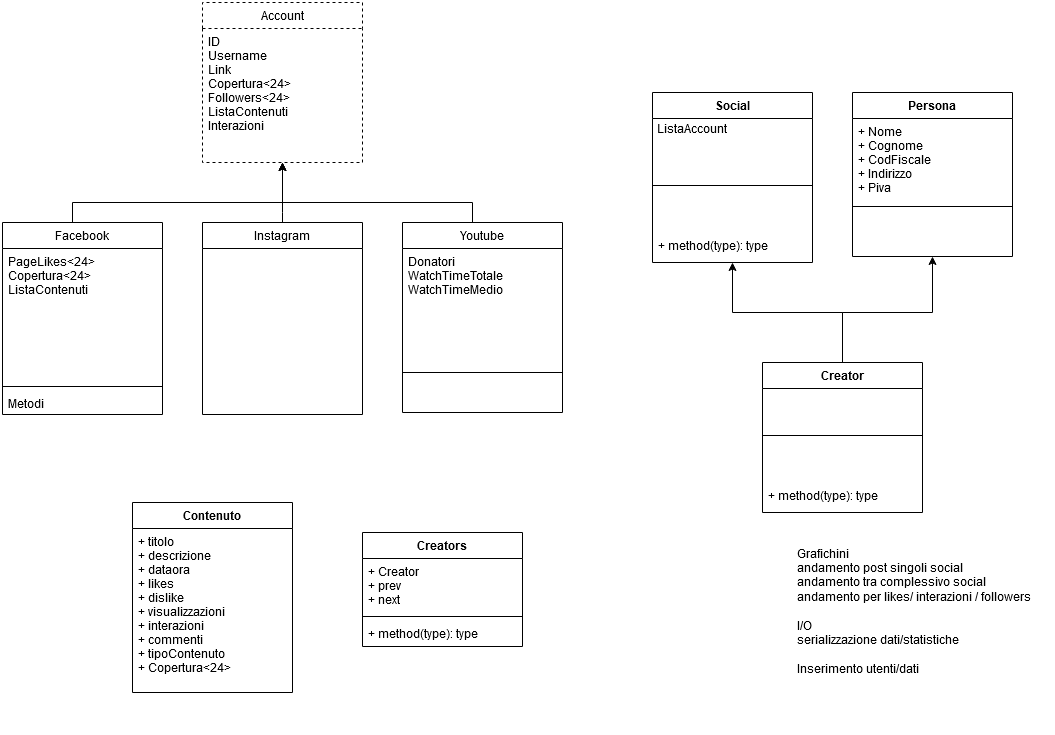
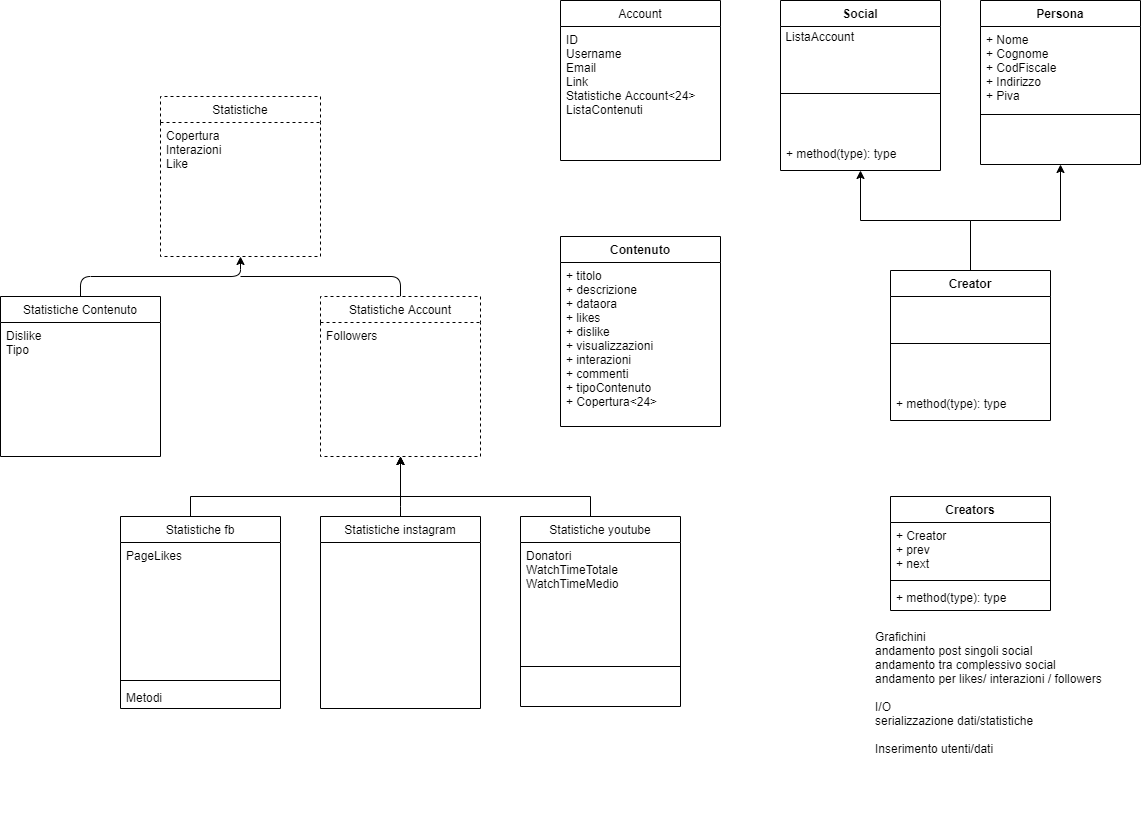
Nuove classi, rimossa vecchia gerarchia

diff --git a/ProgettoPao2020/stats_instagram.h b/ProgettoPao2020/stats_instagram.h
@@ -1,0 +1,11 @@
+#ifndef STATS_INSTAGRAM_H
+#define STATS_INSTAGRAM_H
+#include <stats_account.h>
+
+class Stats_instagram : Stats_account
+{
+public:
+    Stats_instagram();
+};
+
+#endif // STATS_INSTAGRAM_H

diff --git a/ProgettoPao2020/stats_facebook.h b/ProgettoPao2020/stats_facebook.h
@@ -1,0 +1,11 @@
+#ifndef STATS_FACEBOOK_H
+#define STATS_FACEBOOK_H
+#include <stats_account.h>
+
+class Stats_facebook : Stats_account
+{
+public:
+    Stats_facebook();
+};
+
+#endif // STATS_FACEBOOK_H

diff --git a/ProgettoPao2020/stats_youtube.h b/ProgettoPao2020/stats_youtube.h
@@ -1,0 +1,11 @@
+#ifndef STATS_YOUTUBE_H
+#define STATS_YOUTUBE_H
+#include <stats_account.h>
+
+class Stats_youtube : Stats_account
+{
+public:
+    Stats_youtube();
+};
+
+#endif // STATS_YOUTUBE_H

diff --git a/ProgettoPao2020/stats_account.h b/ProgettoPao2020/stats_account.h
@@ -1,0 +1,11 @@
+#ifndef STATS_ACCOUNT_H
+#define STATS_ACCOUNT_H
+#include <stats.h>
+
+class Stats_account : Stats
+{
+public:
+    Stats_account();
+};
+
+#endif // STATS_ACCOUNT_H

diff --git a/ProgettoPao2020/stats_content.h b/ProgettoPao2020/stats_content.h
@@ -1,0 +1,11 @@
+#ifndef STATS_CONTENT_H
+#define STATS_CONTENT_H
+#include <stats.h>
+
+class Stats_content : Stats
+{
+public:
+    Stats_content();
+};
+
+#endif // STATS_CONTENT_H

diff --git a/ProgettoPao2020/stats.h b/ProgettoPao2020/stats.h
@@ -1,0 +1,11 @@
+#ifndef STATS_H
+#define STATS_H
+
+
+class Stats
+{
+public:
+    Stats();
+};
+
+#endif // STATS_H

diff --git a/ProgettoPao2020/stats_instagram.cpp b/ProgettoPao2020/stats_instagram.cpp
@@ -1,0 +1,6 @@
+#include "stats_instagram.h"
+
+Stats_instagram::Stats_instagram()
+{
+
+}

diff --git a/ProgettoPao2020/stats_facebook.cpp b/ProgettoPao2020/stats_facebook.cpp
@@ -1,0 +1,6 @@
+#include "stats_facebook.h"
+
+Stats_facebook::Stats_facebook()
+{
+
+}

diff --git a/ProgettoPao2020/stats_account.cpp b/ProgettoPao2020/stats_account.cpp
@@ -1,0 +1,6 @@
+#include "stats_account.h"
+
+Stats_account::Stats_account()
+{
+
+}

diff --git a/ProgettoPao2020/stats_content.cpp b/ProgettoPao2020/stats_content.cpp
@@ -1,0 +1,6 @@
+#include "stats_content.h"
+
+Stats_content::Stats_content()
+{
+
+}

diff --git a/ProgettoPao2020/stats_youtube.cpp b/ProgettoPao2020/stats_youtube.cpp
@@ -1,0 +1,6 @@
+#include "stats_youtube.h"
+
+Stats_youtube::Stats_youtube()
+{
+
+}

diff --git a/ProgettoPao2020/stats.cpp b/ProgettoPao2020/stats.cpp
@@ -1,0 +1,6 @@
+#include "stats.h"
+
+Stats::Stats()
+{
+
+}
